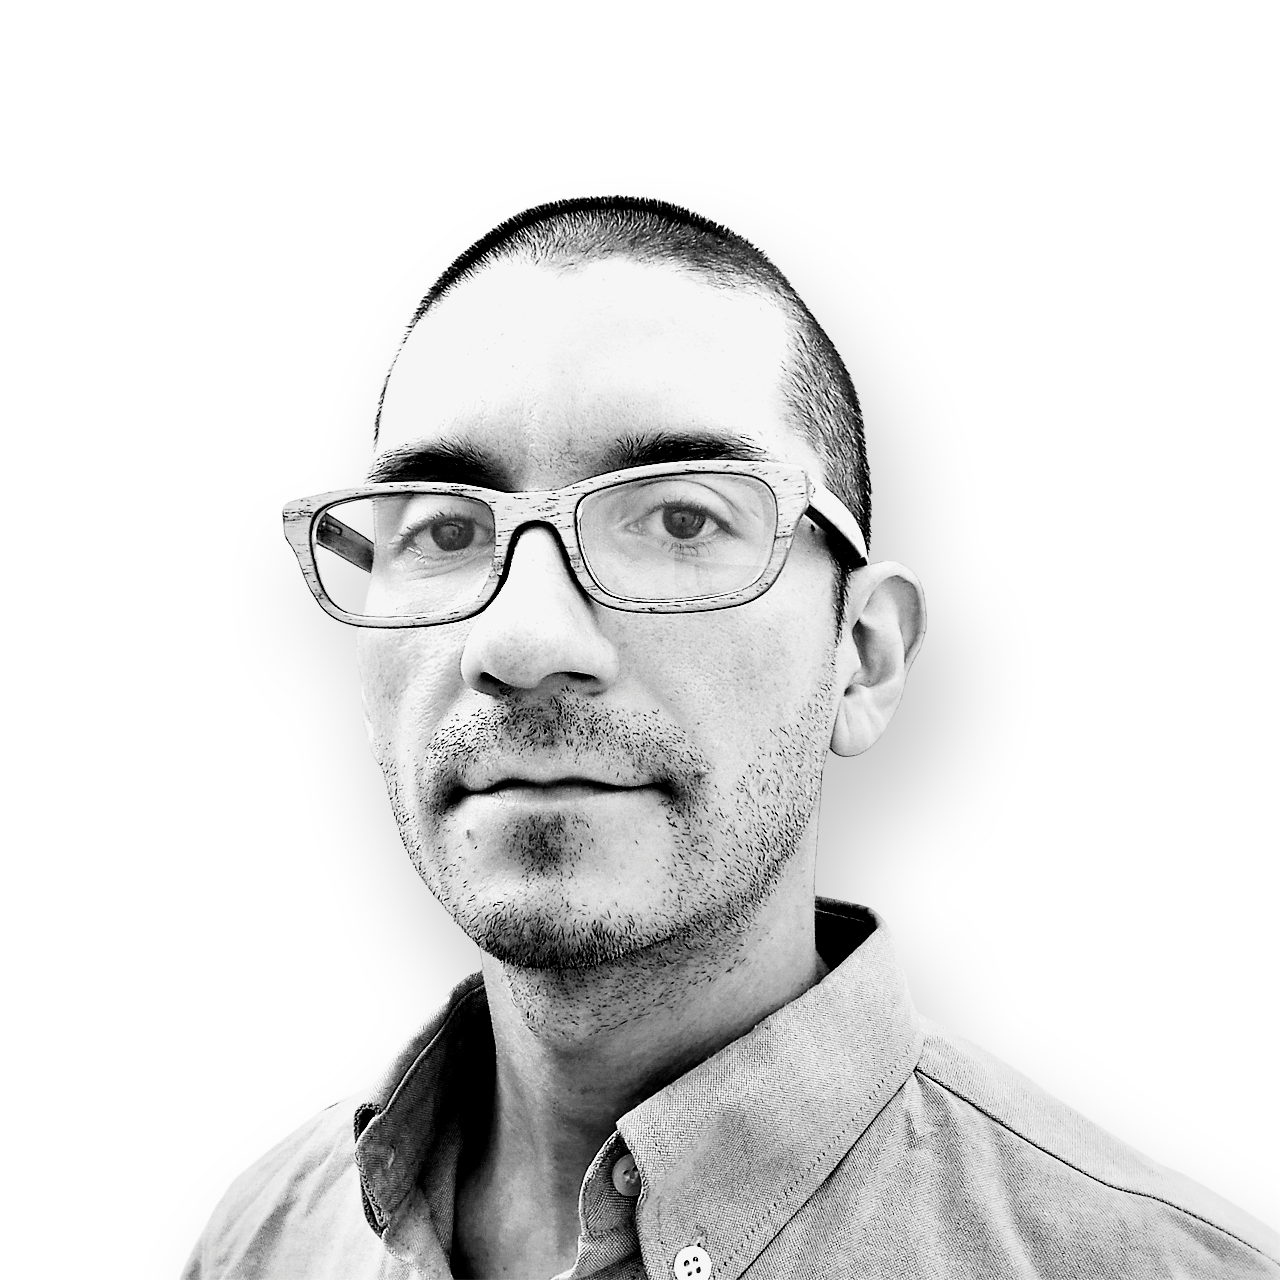
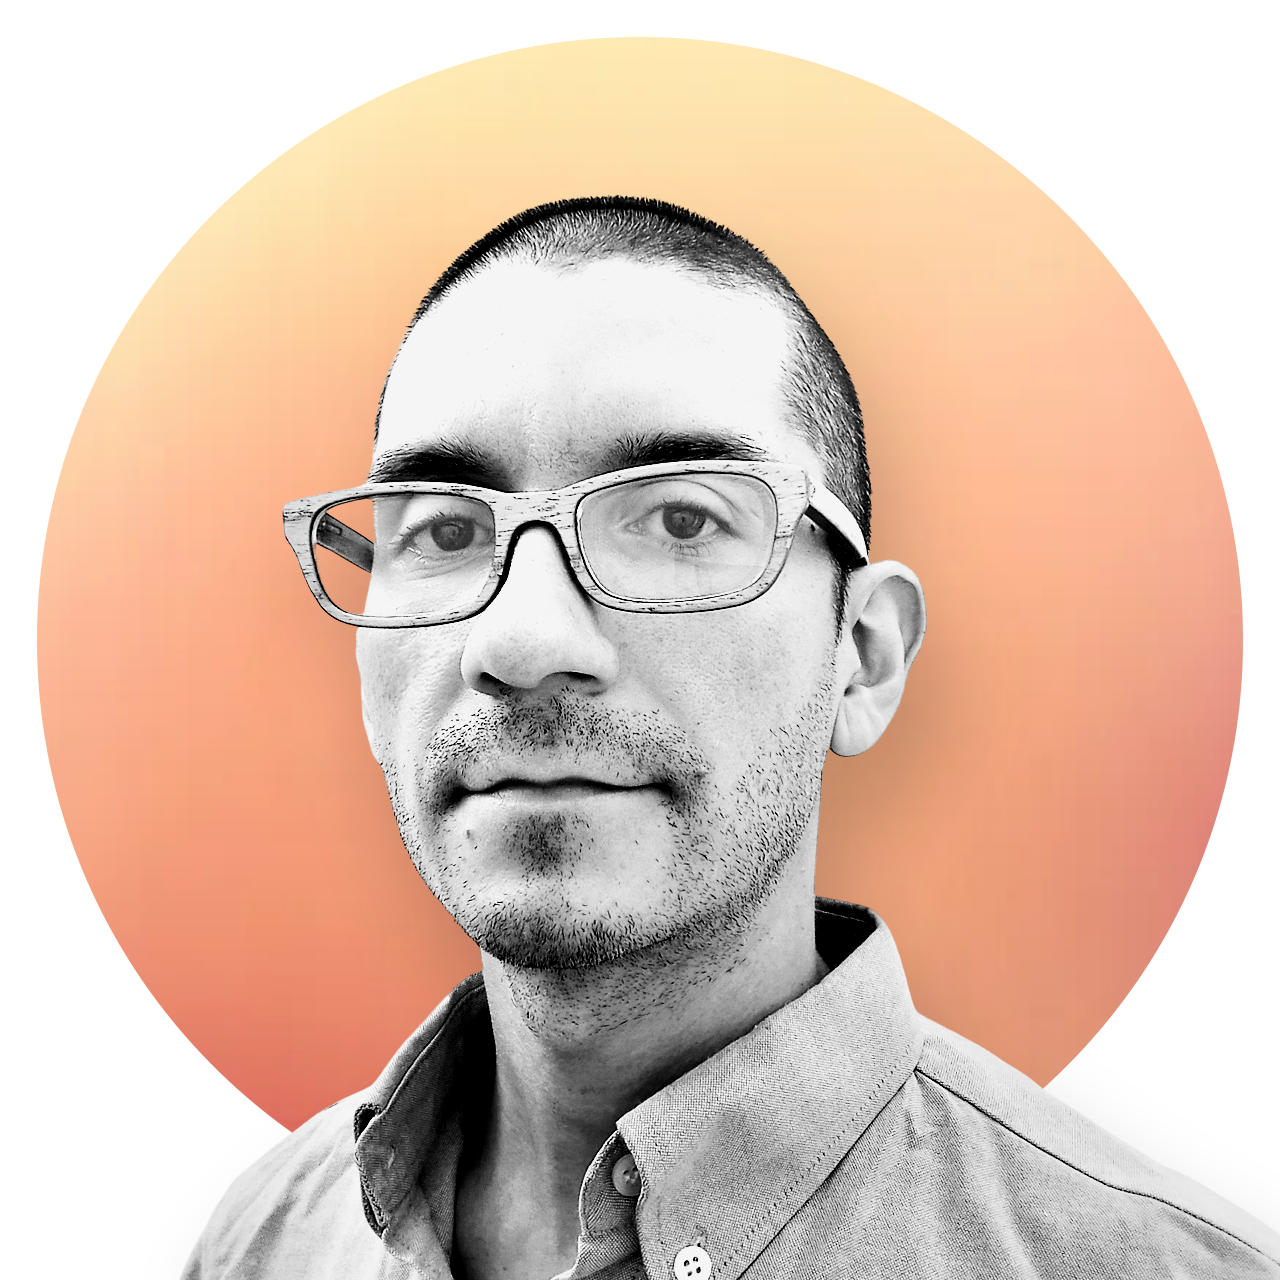
ph

diff --git a/styles.css b/styles.css
@@ -164,9 +164,9 @@ section#hero {
 }
 
 section#hero img {
-    width: 250px;
+    width: 230px;
     border-radius: 50%;
-    margin-bottom: 30px;
+    margin-bottom: 30px;    
 }
 
 
